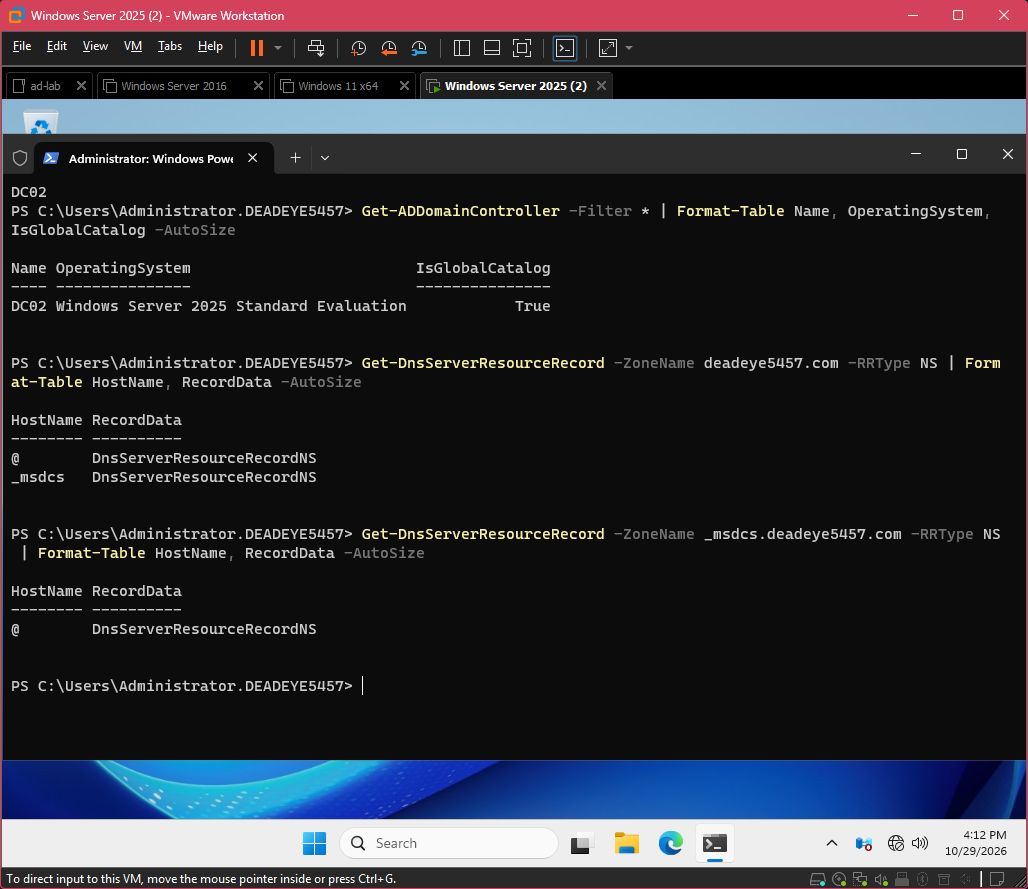
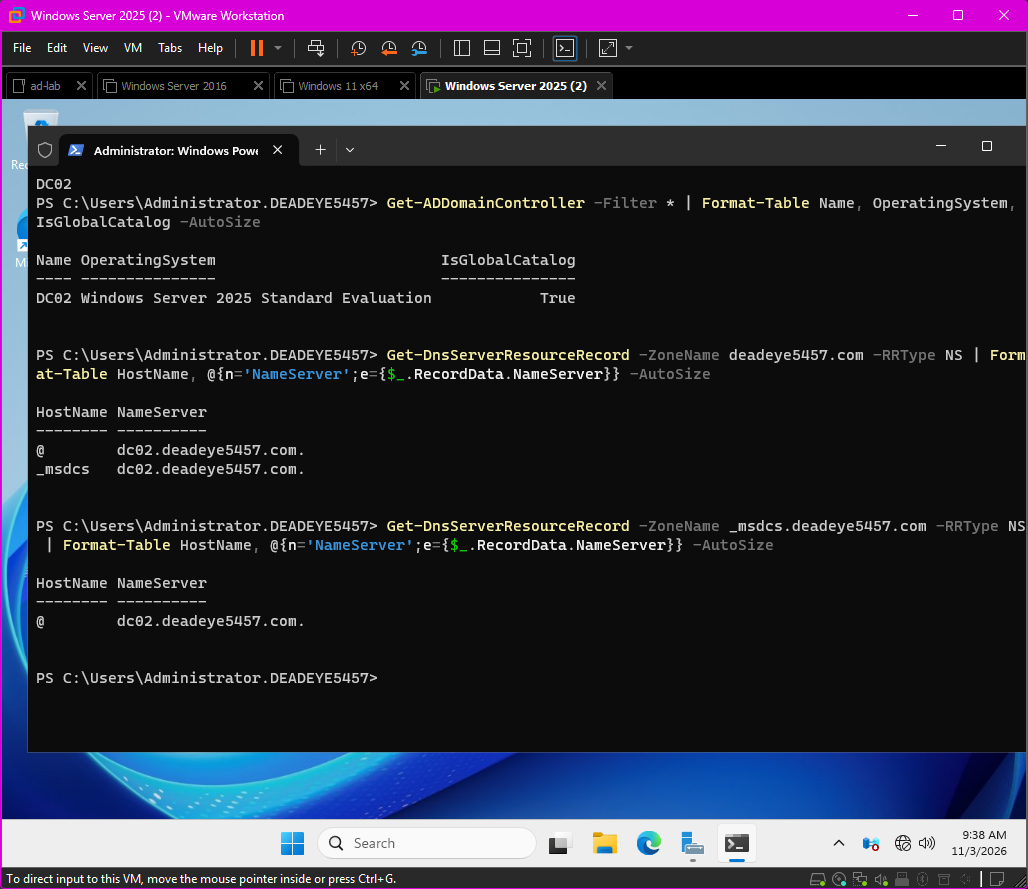
docs: README with evidence, troubleshooting log

diff --git a/README.md b/README.md
@@ -67,7 +67,7 @@ The migration was done side by side rather than as an in-place upgrade. Each ste
 | 9 | Scream test: DC01 powered off, client logs on and gets GPO from DC02 | [10-client-on-dc02](evidence/10-client-on-dc02.png) |
 | 10 | DC01 demoted cleanly; one DC left and no stale NS records | [11-only-dc02](evidence/11-only-dc02.png) |
 | 11 | Domain and forest raised to `Windows2025` (one-way) | [12-funclevel-raised](evidence/12-funclevel-raised.png) |
-| 12 | Snapshots taken in coordinated pairs at every risky step | [13-snapshot-tree](evidence/13-snapshot-tree.png) |
+| 12 | Snapshots taken in coordinated pairs at every risky step (matching names on both DCs) | [13-snapshot-tree](evidence/13-snapshot-tree.png) (DC02), [13a-snapshot-tree-dc01](evidence/13a-snapshot-tree-dc01.png) |
 
 ![FSMO roles before and after](evidence/09-fsmo-before-and-after.png)
 
